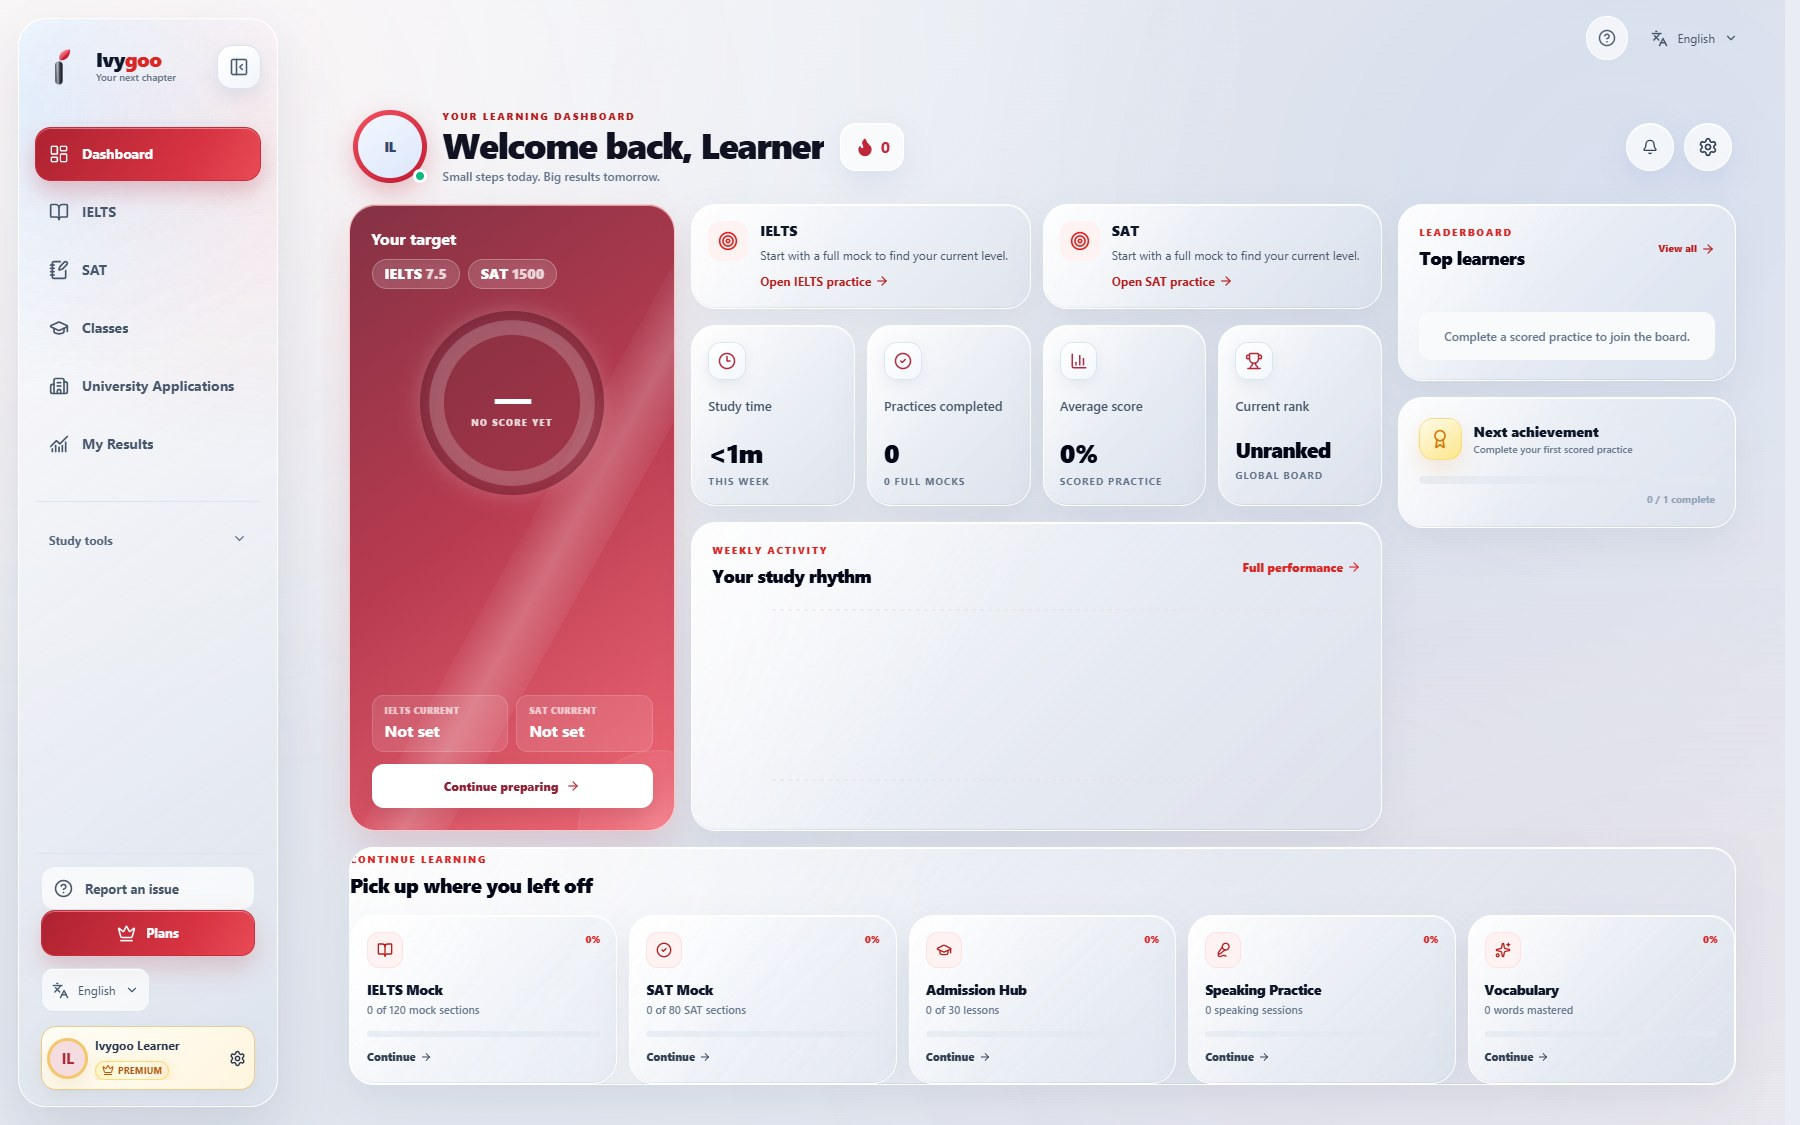
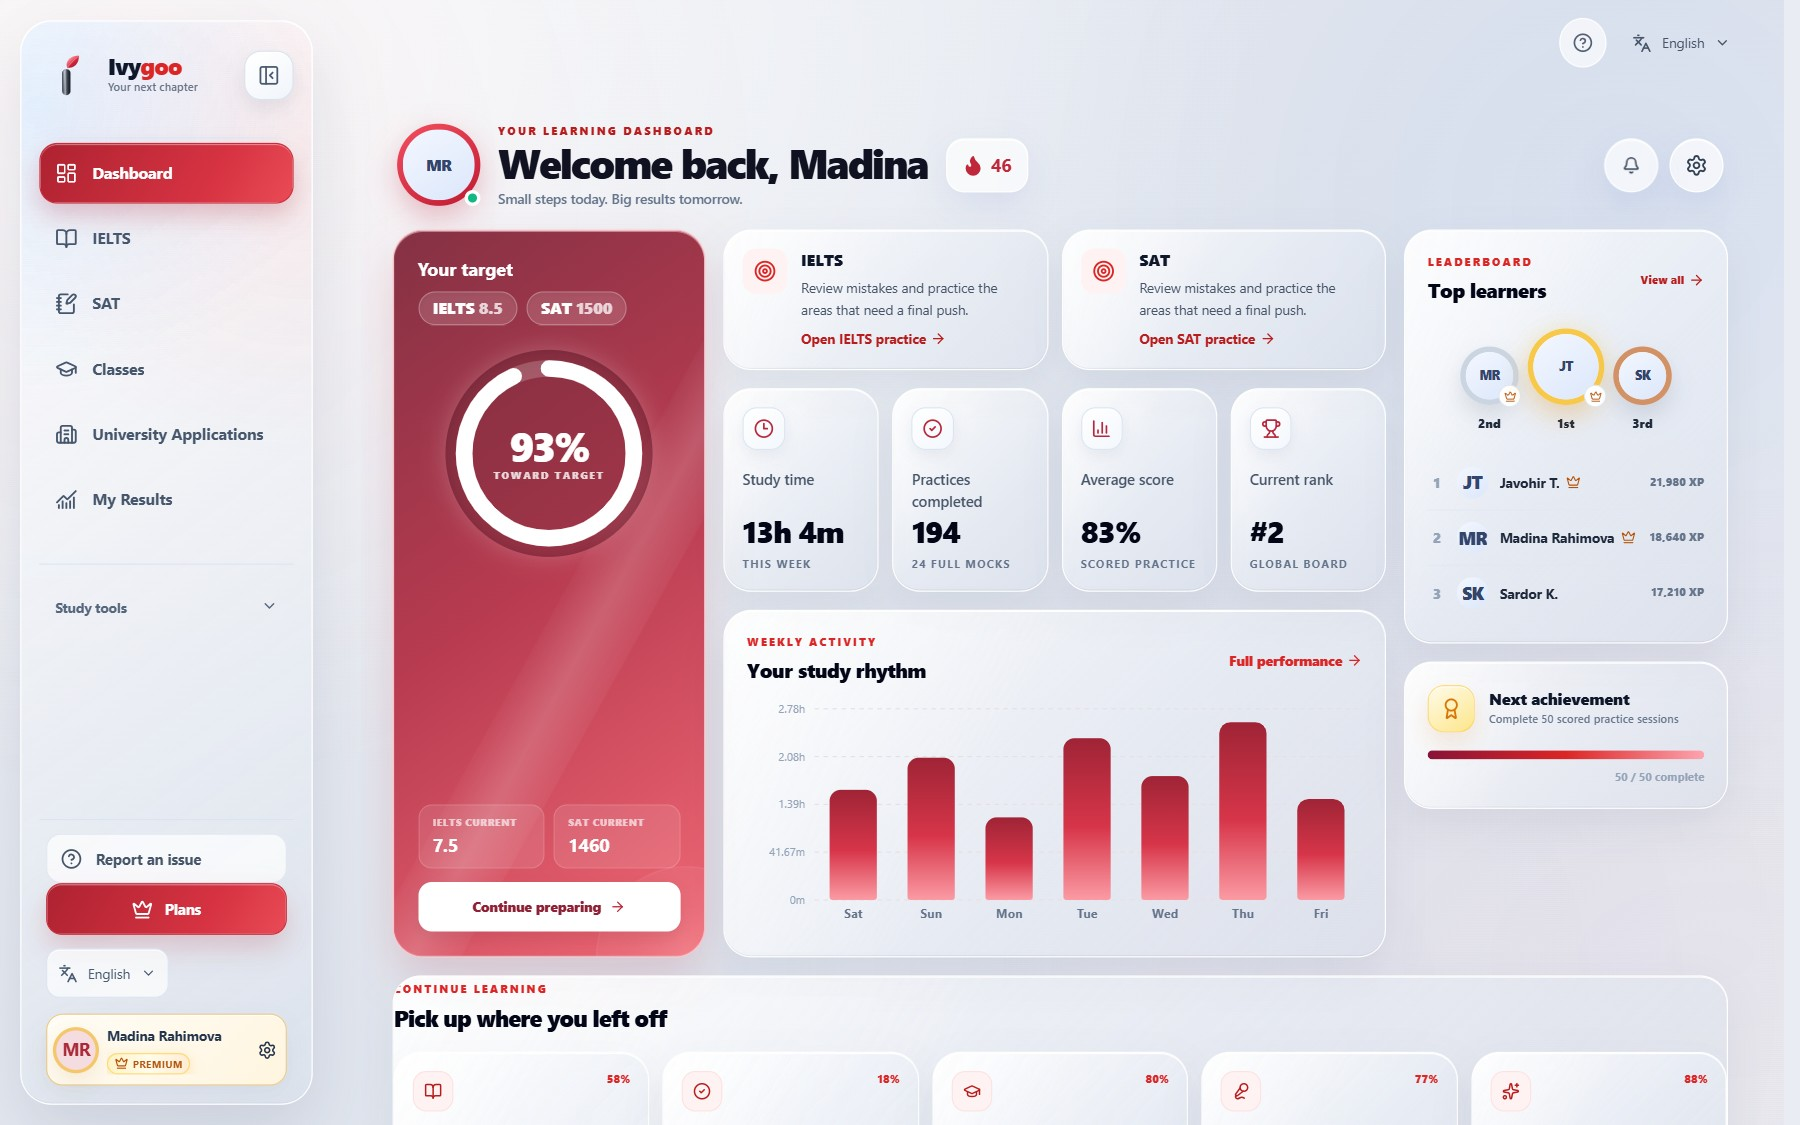
Make landing scrolling smooth and show a well-practised dashboard
- Return to native scrolling: drop the wheel/keyboard paging hook that
  locked the page for 850 ms and swallowed continuous wheel input, and drop
  scroll snapping
- Stop repainting on every frame: remove live backdrop blur from all landing
  panels except the fixed header and mobile menu, replace the animated 70px
  blurred backdrop blobs with static gradients, and skip rendering chapters
  until they approach the viewport (content-visibility)
- Track the side rail with an IntersectionObserver instead of layout reads
  on each scroll frame
- Replace the empty hero/tour dashboard preview with a learner who has
  practised a lot (demo data), and align the hero cards and tour hotspots

Measured in headless Edge (60 wheel notches): 48 -> 58 fps average,
p95 frame 50 -> 17 ms, frames over 50 ms 26 -> 3.

diff --git a/src/pages/Landing.tsx b/src/pages/Landing.tsx
@@ -57,85 +57,6 @@ function useCountUp(target: number, active: boolean) {
   return value
 }
 
-/** Desktop wheel/keyboard paging: one gesture moves exactly one chapter, and a
- * chapter taller than the viewport scrolls natively until its edge is reached. */
-function useChapterPaging() {
-  const reducedMotion = useReducedMotion()
-  useEffect(() => {
-    const media = window.matchMedia('(min-width: 900px) and (min-height: 620px) and (pointer: fine)')
-    let locked = false
-    let lastWheel = 0
-    let swallowMomentum = false
-    let unlockTimer = 0
-
-    const chapterTops = () => [...document.querySelectorAll<HTMLElement>('[data-lx-screen]')].map(element => {
-      const top = element.getBoundingClientRect().top + window.scrollY
-      return { top, bottom: top + element.offsetHeight }
-    })
-    const blocked = (target: EventTarget | null) => !media.matches || document.body.style.overflow === 'hidden' ||
-      (target instanceof Element && Boolean(target.closest('[role="dialog"], input, textarea, select, [contenteditable="true"]')))
-
-    // Returns true when the gesture was handled as a chapter jump (or clamped to a chapter edge).
-    const page = (direction: 1 | -1, distance: number) => {
-      const chapters = chapterTops()
-      const y = window.scrollY
-      const viewport = window.innerHeight
-      let index = 0
-      chapters.forEach((chapter, position) => { if (chapter.top <= y + 4) index = position })
-      const current = chapters[index]
-      const remainingBelow = current.bottom - (y + viewport)
-      const remainingAbove = y - current.top
-      // A sliver under ~90px is not worth its own stop; move straight to the next chapter.
-      if (direction > 0 && remainingBelow > 90) {
-        if (distance < remainingBelow) return false
-        window.scrollTo({ top: current.bottom - viewport, behavior: 'auto' })
-        swallowMomentum = true
-        return true
-      }
-      if (direction < 0 && remainingAbove > 90) {
-        if (distance < remainingAbove) return false
-        window.scrollTo({ top: current.top, behavior: 'auto' })
-        swallowMomentum = true
-        return true
-      }
-      const next = chapters[index + direction]
-      if (!next) return false
-      const nextHeight = next.bottom - next.top
-      const target = direction < 0 && nextHeight > viewport + 90 ? next.bottom - viewport : next.top
-      locked = true
-      swallowMomentum = true
-      window.scrollTo({ top: target, behavior: reducedMotion ? 'auto' : 'smooth' })
-      window.clearTimeout(unlockTimer)
-      unlockTimer = window.setTimeout(() => { locked = false }, reducedMotion ? 120 : 850)
-      return true
-    }
-
-    const onWheel = (event: WheelEvent) => {
-      if (event.ctrlKey || blocked(event.target) || Math.abs(event.deltaY) < Math.abs(event.deltaX)) return
-      const now = performance.now()
-      const gap = now - lastWheel
-      lastWheel = now
-      if (gap > 260) swallowMomentum = false
-      if (locked || swallowMomentum) { event.preventDefault(); return }
-      if (Math.abs(event.deltaY) < 2) return
-      const distance = Math.abs(event.deltaMode === 1 ? event.deltaY * 32 : event.deltaY)
-      if (page(event.deltaY > 0 ? 1 : -1, distance)) event.preventDefault()
-    }
-    const onKey = (event: KeyboardEvent) => {
-      if (event.altKey || event.ctrlKey || event.metaKey || blocked(event.target)) return
-      const forward = ['PageDown', 'ArrowDown'].includes(event.key) || (event.key === ' ' && !event.shiftKey)
-      const backward = ['PageUp', 'ArrowUp'].includes(event.key) || (event.key === ' ' && event.shiftKey)
-      if (!forward && !backward) return
-      if (event.key === ' ' && event.target instanceof Element && event.target.closest('button, a')) return
-      if (locked) { event.preventDefault(); return }
-      if (page(forward ? 1 : -1, event.key.startsWith('Page') || event.key === ' ' ? window.innerHeight : 80)) event.preventDefault()
-    }
-    window.addEventListener('wheel', onWheel, { passive: false })
-    window.addEventListener('keydown', onKey)
-    return () => { window.removeEventListener('wheel', onWheel); window.removeEventListener('keydown', onKey); window.clearTimeout(unlockTimer) }
-  }, [reducedMotion])
-}
-
 /** One full-viewport chapter. The page pages between these on larger screens. */
 function Screen({ id, label, className = '', children }: { id: string; label: string; className?: string; children: ReactNode }) {
   return <section id={id} data-lx-screen={label} className={`lx-screen ${className}`}>{children}</section>
@@ -174,9 +95,9 @@ function Hero({ onStart, onExplore }: { onStart: () => void; onExplore: () => vo
       </div>
       <motion.div className="lx-hero-stage" initial={reducedMotion ? false : { opacity: 0, rotateY: -18, rotateX: 8, y: 50 }} animate={{ opacity: 1, rotateY: -6, rotateX: 3, y: 0 }} transition={{ duration: 1.1, delay: .15, ease: EASE }}>
         <BrowserFrame src="/assets/landing/dashboard-ivygoo.jpg" alt={t(['Ivygoo learning dashboard', 'Ivygoo boshqaruv paneli', 'Панель Ivygoo'])} address="ivygoo.com/dashboard" eager />
-        <div className="lx-float lx-float-a"><Target size={17} /><span><small>{t(['Target score', 'Maqsadli ball', 'Целевой балл'])}</small><strong>IELTS 7.5</strong></span></div>
-        <div className="lx-float lx-float-b"><svg viewBox="0 0 44 44" aria-hidden="true"><circle cx="22" cy="22" r="18" /><circle cx="22" cy="22" r="18" pathLength="100" strokeDasharray="89 100" /></svg><span><strong>89%</strong><small>{t(['Toward target', 'Maqsad sari', 'К цели'])}</small></span></div>
-        <div className="lx-float lx-float-c"><Flame size={17} /><span><strong>18</strong><small>{t(['day streak', 'kunlik seriya', 'дней подряд'])}</small></span></div>
+        <div className="lx-float lx-float-a"><Target size={17} /><span><small>{t(['Target score', 'Maqsadli ball', 'Целевой балл'])}</small><strong>IELTS 8.5</strong></span></div>
+        <div className="lx-float lx-float-b"><svg viewBox="0 0 44 44" aria-hidden="true"><circle cx="22" cy="22" r="18" /><circle cx="22" cy="22" r="18" pathLength="100" strokeDasharray="93 100" /></svg><span><strong>93%</strong><small>{t(['Toward target', 'Maqsad sari', 'К цели'])}</small></span></div>
+        <div className="lx-float lx-float-c"><Flame size={17} /><span><strong>46</strong><small>{t(['day streak', 'kunlik seriya', 'дней подряд'])}</small></span></div>
       </motion.div>
     </div>
     <div className="lx-exam-cards">
@@ -300,19 +221,13 @@ function ScrollRail({ label }: { label: string }) {
   useEffect(() => {
     const elements = [...document.querySelectorAll<HTMLElement>('[data-lx-screen]')]
     setScreens(elements.map(element => ({ id: element.id, label: element.dataset.lxScreen ?? '' })))
-    // Pinned chapters are several screens tall, so pick the chapter crossing the upper part of the viewport.
-    let frame = 0
-    const update = () => {
-      frame = 0
-      const line = window.innerHeight * .45
-      const passed = elements.filter(element => element.getBoundingClientRect().top <= line)
-      const current = passed[passed.length - 1] ?? elements[0]
-      if (current) setActive(current.id)
-    }
-    const onScroll = () => { if (!frame) frame = window.requestAnimationFrame(update) }
-    update()
-    window.addEventListener('scroll', onScroll, { passive: true })
-    return () => { window.removeEventListener('scroll', onScroll); window.cancelAnimationFrame(frame) }
+    // The chapter crossing a thin band at 45% of the viewport is the current one.
+    const observer = new IntersectionObserver(entries => {
+      const crossing = entries.find(entry => entry.isIntersecting)
+      if (crossing) setActive(crossing.target.id)
+    }, { rootMargin: '-45% 0px -54% 0px' })
+    elements.forEach(element => observer.observe(element))
+    return () => observer.disconnect()
   }, [label])
   return <nav className="lx-rail" aria-label={label}>
     {screens.map(screen => <a key={screen.id} href={`#${screen.id}`} className={active === screen.id ? 'is-active' : ''} aria-current={active === screen.id ? 'true' : undefined}><span>{screen.label}</span><i /></a>)}
@@ -329,15 +244,14 @@ export default function Landing() {
   const [scrolled, setScrolled] = useState(false)
   const { scrollYProgress } = useScroll()
   const progress = useSpring(scrollYProgress, { stiffness: 140, damping: 30, mass: .3 })
-  useChapterPaging()
 
   useEffect(() => {
-    const root = document.documentElement
-    root.classList.add('lx-snap')
-    const update = () => setScrolled(window.scrollY > 16)
+    let frame = 0
+    const update = () => { frame = 0; setScrolled(window.scrollY > 16) }
+    const onScroll = () => { if (!frame) frame = window.requestAnimationFrame(update) }
     update()
-    window.addEventListener('scroll', update, { passive: true })
-    return () => { root.classList.remove('lx-snap'); window.removeEventListener('scroll', update) }
+    window.addEventListener('scroll', onScroll, { passive: true })
+    return () => { window.removeEventListener('scroll', onScroll); window.cancelAnimationFrame(frame) }
   }, [])
   const start = () => navigate('/register')
   const scrollTo = (id: string) => {

diff --git a/src/styles/landing-showcase.css b/src/styles/landing-showcase.css
@@ -8,6 +8,7 @@
   --lx-line: rgba(124, 132, 146, .24);
   --lx-glass: linear-gradient(140deg, rgba(255, 255, 255, .78) 0%, rgba(240, 242, 246, .55) 48%, rgba(222, 226, 233, .5) 100%);
   --lx-glass-edge: rgba(255, 255, 255, .9);
+  --lx-glass-solid: linear-gradient(140deg, rgba(255, 255, 255, .9) 0%, rgba(244, 245, 248, .78) 48%, rgba(230, 233, 238, .74) 100%);
   --lx-shadow: 0 30px 70px -28px rgba(25, 32, 46, .32), 0 6px 18px -6px rgba(25, 32, 46, .1), inset 0 1px 0 #fff, inset 0 -1px 0 rgba(118, 127, 142, .16);
   --lx-red-fill: linear-gradient(135deg, #ec2846 0%, #cf1230 52%, #a40e25 100%);
   --lx-red-glow: 0 16px 34px -10px rgba(206, 18, 46, .62), inset 0 1px 0 rgba(255, 255, 255, .45), inset 0 -2px 0 rgba(110, 6, 22, .25);
@@ -23,11 +24,8 @@
 /* The route entrance animation leaves a transform that would trap fixed header, rail and backdrop. */
 .arena-route:has(> .lx-page) { animation: none; transform: none; }
 
-/* Scroll snapping: every chapter stops before the next one on desktop screens. */
-/* Wheel and keyboard paging is handled in Landing.tsx; proximity snapping helps touch and scrollbar drags. */
-html.lx-snap { scroll-snap-type: y proximity; }
-.lx-screen { scroll-snap-align: start; }
-.lx-feature, .lx-inside { scroll-snap-stop: always; }
+/* Scrolling stays native. Chapters below the fold skip rendering until they approach the viewport. */
+.lx-screen:not(.lx-hero) { content-visibility: auto; contain-intrinsic-size: auto 100vh; }
 
 /* Silver studio backdrop */
 .lx-backdrop { position: fixed; inset: 0; z-index: 0; pointer-events: none; overflow: hidden;
@@ -38,16 +36,15 @@ html.lx-snap { scroll-snap-type: y proximity; }
     radial-gradient(ellipse at 88% 92%, rgba(255, 255, 255, .8) 0%, transparent 45%),
     linear-gradient(160deg, #f2f3f5 0%, #dfe2e7 46%, #eceef1 100%);
 }
-.lx-backdrop i { position: absolute; border-radius: 50%; filter: blur(70px); opacity: .55; animation: lx-drift 22s ease-in-out infinite alternate; }
-.lx-backdrop i:nth-child(1) { width: 46vw; height: 30vw; right: -12vw; top: 6vh; background: radial-gradient(circle, rgba(232, 28, 58, .32), transparent 68%); }
-.lx-backdrop i:nth-child(2) { width: 38vw; height: 26vw; left: -14vw; bottom: -6vh; background: radial-gradient(circle, rgba(222, 22, 50, .22), transparent 70%); animation-delay: -8s; }
-.lx-backdrop i:nth-child(3) { width: 60vw; height: 14vw; left: 20vw; top: 44vh; background: linear-gradient(90deg, transparent, rgba(255, 255, 255, .9), transparent); filter: blur(40px); transform: rotate(-14deg); animation-delay: -14s; }
-@keyframes lx-drift { from { transform: translate3d(0, 0, 0) scale(1); } to { transform: translate3d(-4vw, 3vh, 0) scale(1.12); } }
+.lx-backdrop i { position: absolute; border-radius: 50%; opacity: .55; }
+.lx-backdrop i:nth-child(1) { width: 46vw; height: 30vw; right: -12vw; top: 6vh; background: radial-gradient(closest-side, rgba(232, 28, 58, .3), rgba(232, 28, 58, .12) 55%, transparent); }
+.lx-backdrop i:nth-child(2) { width: 38vw; height: 26vw; left: -14vw; bottom: -6vh; background: radial-gradient(closest-side, rgba(222, 22, 50, .2), rgba(222, 22, 50, .08) 55%, transparent); }
+.lx-backdrop i:nth-child(3) { width: 60vw; height: 14vw; left: 20vw; top: 44vh; background: radial-gradient(closest-side, rgba(255, 255, 255, .85), transparent); transform: rotate(-14deg); }
 
 .lx-progress { position: fixed; z-index: 70; top: 0; left: 0; right: 0; height: 3px; transform-origin: 0 50%; background: linear-gradient(90deg, #a40e25, #ef2b4a, #ff8090); box-shadow: 0 0 14px rgba(239, 43, 74, .6); }
 
 .lx-page main { position: relative; z-index: 1; }
-.lx-glass { border: 1px solid var(--lx-glass-edge); background: var(--lx-glass); box-shadow: var(--lx-shadow); -webkit-backdrop-filter: blur(24px) saturate(165%); backdrop-filter: blur(24px) saturate(165%); }
+.lx-glass { border: 1px solid var(--lx-glass-edge); background: var(--lx-glass-solid, var(--lx-glass)); box-shadow: var(--lx-shadow); -webkit-backdrop-filter: blur(24px) saturate(165%); backdrop-filter: blur(24px) saturate(165%); }
 
 /* Buttons and type helpers */
 .lx-btn { position: relative; display: inline-flex; align-items: center; justify-content: center; gap: 10px; min-height: 56px; padding: 0 28px; border: 1px solid transparent; border-radius: 14px; font-size: 16px; font-weight: 650; letter-spacing: .005em; white-space: nowrap; overflow: hidden; transition: transform .25s ease, box-shadow .25s ease, background .25s ease; }
@@ -75,7 +72,7 @@ html.lx-snap { scroll-snap-type: y proximity; }
 
 /* Header */
 .lx-header { position: fixed; z-index: 60; top: 12px; left: 0; right: 0; padding: 0 var(--lx-gutter); pointer-events: none; }
-.lx-nav { pointer-events: auto; display: flex; align-items: center; justify-content: space-between; gap: 16px; width: min(1320px, 100%); min-height: 72px; margin: 0 auto; padding: 10px 12px 10px 22px; border: 1px solid var(--lx-glass-edge); border-radius: 22px; background: linear-gradient(140deg, rgba(255, 255, 255, .72), rgba(236, 238, 242, .5)); box-shadow: 0 18px 44px -20px rgba(25, 32, 46, .32), inset 0 1px 0 #fff; -webkit-backdrop-filter: blur(26px) saturate(170%); backdrop-filter: blur(26px) saturate(170%); transition: box-shadow .3s ease, background .3s ease; }
+.lx-nav { pointer-events: auto; display: flex; align-items: center; justify-content: space-between; gap: 16px; width: min(1320px, 100%); min-height: 72px; margin: 0 auto; padding: 10px 12px 10px 22px; border: 1px solid var(--lx-glass-edge); border-radius: 22px; background: linear-gradient(140deg, rgba(255, 255, 255, .72), rgba(236, 238, 242, .5)); box-shadow: 0 18px 44px -20px rgba(25, 32, 46, .32), inset 0 1px 0 #fff; -webkit-backdrop-filter: blur(14px) saturate(160%); backdrop-filter: blur(14px) saturate(160%); transition: box-shadow .3s ease, background .3s ease; }
 .lx-header.is-scrolled .lx-nav { background: linear-gradient(140deg, rgba(255, 255, 255, .86), rgba(236, 238, 242, .72)); box-shadow: 0 22px 50px -20px rgba(25, 32, 46, .4), inset 0 1px 0 #fff; }
 .lx-logo { display: inline-flex; align-items: center; gap: 9px; color: var(--lx-ink); }
 .lx-logo > span { font-size: 25px; font-weight: 800; letter-spacing: -.05em; }
@@ -263,6 +260,8 @@ html.lx-snap { scroll-snap-type: y proximity; }
 .lx-footer nav :is(button, a):hover { color: var(--lx-red-deep); background: rgba(255, 255, 255, .6); }
 .lx-footer p { grid-column: 1 / -1; margin: 0; color: #6a717d; font-size: 12px; }
 
+/* Only the fixed header and mobile menu keep a live backdrop blur; everywhere else it repainted on every scroll frame. */
+.lx-page :where(*):not(.lx-nav, .lx-mobile-menu) { -webkit-backdrop-filter: none !important; backdrop-filter: none !important; }
 .lx-page :is(button, a):focus-visible { outline: 3px solid rgba(211, 19, 47, .55); outline-offset: 3px; }
 
 /* Responsive */
@@ -324,6 +323,6 @@ html.lx-snap { scroll-snap-type: y proximity; }
   .lx-feature-copy h2 { margin-bottom: 0; }
 }
 @media (prefers-reduced-motion: reduce) {
-  .lx-backdrop i, .lx-float, .lx-float-shot, .lx-scroll-cue span, .lx-hotspot.is-active::before, .lx-hotspot.is-active::after { animation: none; }
+  .lx-float, .lx-float-shot, .lx-scroll-cue span, .lx-hotspot.is-active::before, .lx-hotspot.is-active::after { animation: none; }
   .lx-tour-frame .lx-browser-view img, .lx-hotspot, .lx-step-body { transition: none; }
 }

diff --git a/src/components/landing/productTour.ts b/src/components/landing/productTour.ts
@@ -25,10 +25,10 @@ export const tourFeatures: TourFeature[] = [
     body: ['Targets, weekly rhythm, scores and rank stay together, so every session starts with a clear next step.', 'Maqsadlar, haftalik ritm, ballar va reyting bir joyda — har bir mashg‘ulot aniq keyingi qadam bilan boshlanadi.', 'Цели, недельный ритм, баллы и рейтинг собраны вместе — каждое занятие начинается с понятного следующего шага.'],
     alt: ['Ivygoo learning dashboard with target progress, weekly activity and leaderboard', 'Maqsad, haftalik faollik va reyting ko‘rsatilgan Ivygoo boshqaruv paneli', 'Панель Ivygoo с прогрессом к цели, недельной активностью и рейтингом'],
     steps: [
-      { x: 32, y: 44, title: ['Target ring', 'Maqsad halqasi', 'Кольцо цели'], body: ['See how close you are to your IELTS and SAT goals.', 'IELTS va SAT maqsadingizga qanchalik yaqinligingizni ko‘ring.', 'Видно, насколько вы близки к целям IELTS и SAT.'] },
-      { x: 59, y: 48, title: ['Live stats', 'Jonli statistika', 'Живая статистика'], body: ['Study time, completed practice, average score and rank.', 'O‘qish vaqti, bajarilgan mashqlar, o‘rtacha ball va o‘rin.', 'Время занятий, выполненная практика, средний балл и место.'] },
-      { x: 59, y: 76, title: ['Weekly rhythm', 'Haftalik ritm', 'Недельный ритм'], body: ['A daily chart shows how consistently you study.', 'Kunlik grafik qanchalik muntazam o‘qiyotganingizni ko‘rsatadi.', 'Дневной график показывает, насколько регулярно вы учитесь.'] },
-      { x: 87, y: 40, title: ['Leaderboard', 'Reyting', 'Рейтинг'], body: ['Compare XP with learners preparing beside you.', 'Siz bilan birga tayyorlanayotganlar bilan XPni solishtiring.', 'Сравнивайте XP с теми, кто готовится рядом с вами.'] },
+      { x: 31, y: 40, title: ['Target ring', 'Maqsad halqasi', 'Кольцо цели'], body: ['See how close you are to your IELTS and SAT goals.', 'IELTS va SAT maqsadingizga qanchalik yaqinligingizni ko‘ring.', 'Видно, насколько вы близки к целям IELTS и SAT.'] },
+      { x: 60, y: 44, title: ['Live stats', 'Jonli statistika', 'Живая статистика'], body: ['Study time, completed practice, average score and rank.', 'O‘qish vaqti, bajarilgan mashqlar, o‘rtacha ball va o‘rin.', 'Время занятий, выполненная практика, средний балл и место.'] },
+      { x: 58, y: 72, title: ['Weekly rhythm', 'Haftalik ritm', 'Недельный ритм'], body: ['A daily chart shows how consistently you study.', 'Kunlik grafik qanchalik muntazam o‘qiyotganingizni ko‘rsatadi.', 'Дневной график показывает, насколько регулярно вы учитесь.'] },
+      { x: 87, y: 35, title: ['Leaderboard', 'Reyting', 'Рейтинг'], body: ['Compare XP with learners preparing beside you.', 'Siz bilan birga tayyorlanayotganlar bilan XPni solishtiring.', 'Сравнивайте XP с теми, кто готовится рядом с вами.'] },
     ],
   },
   {
